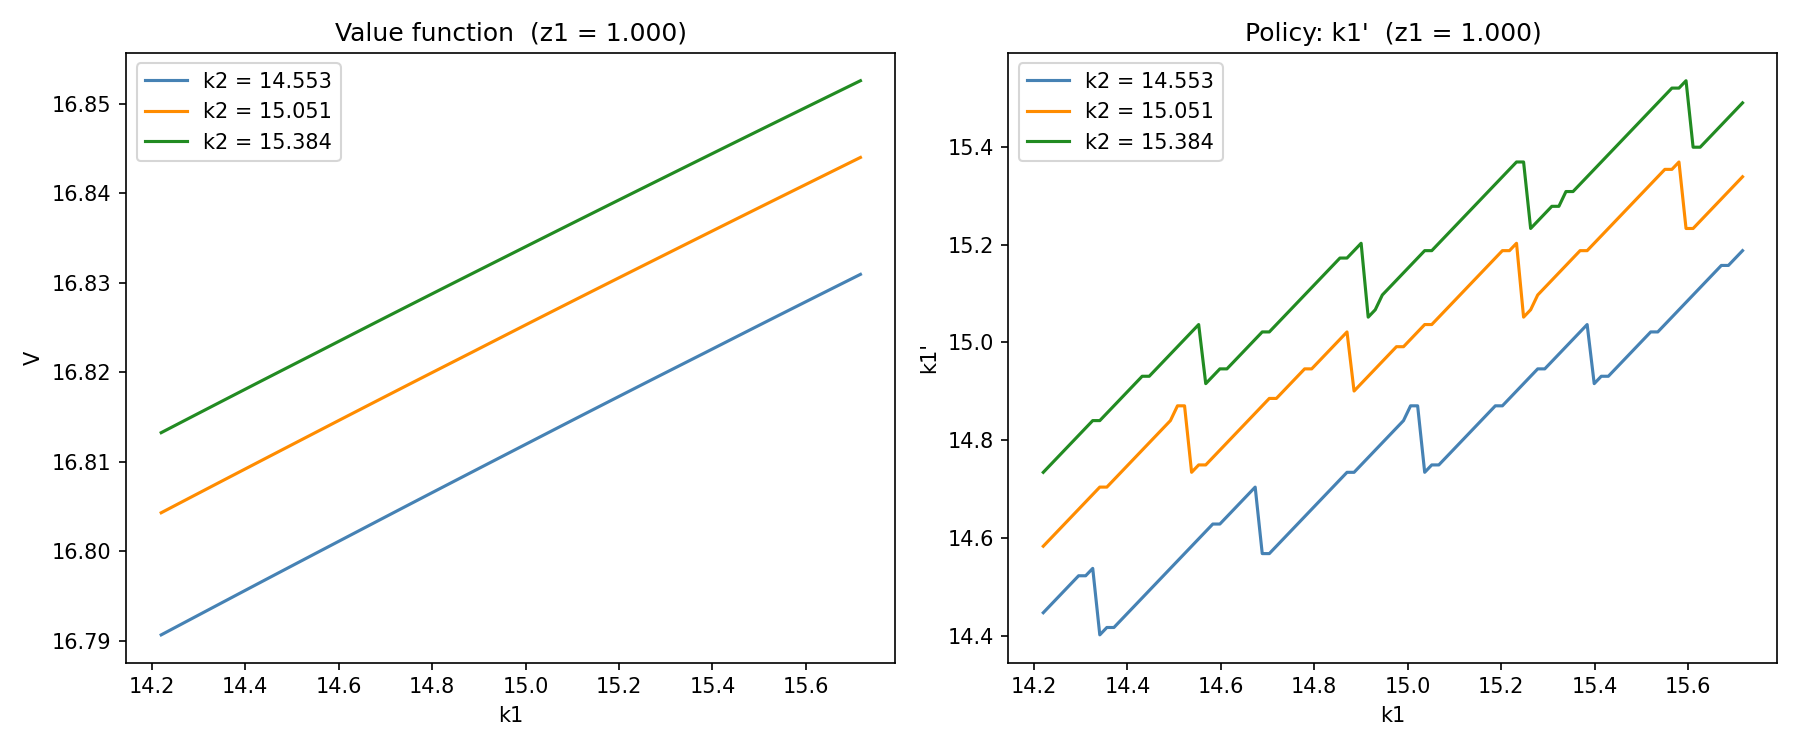
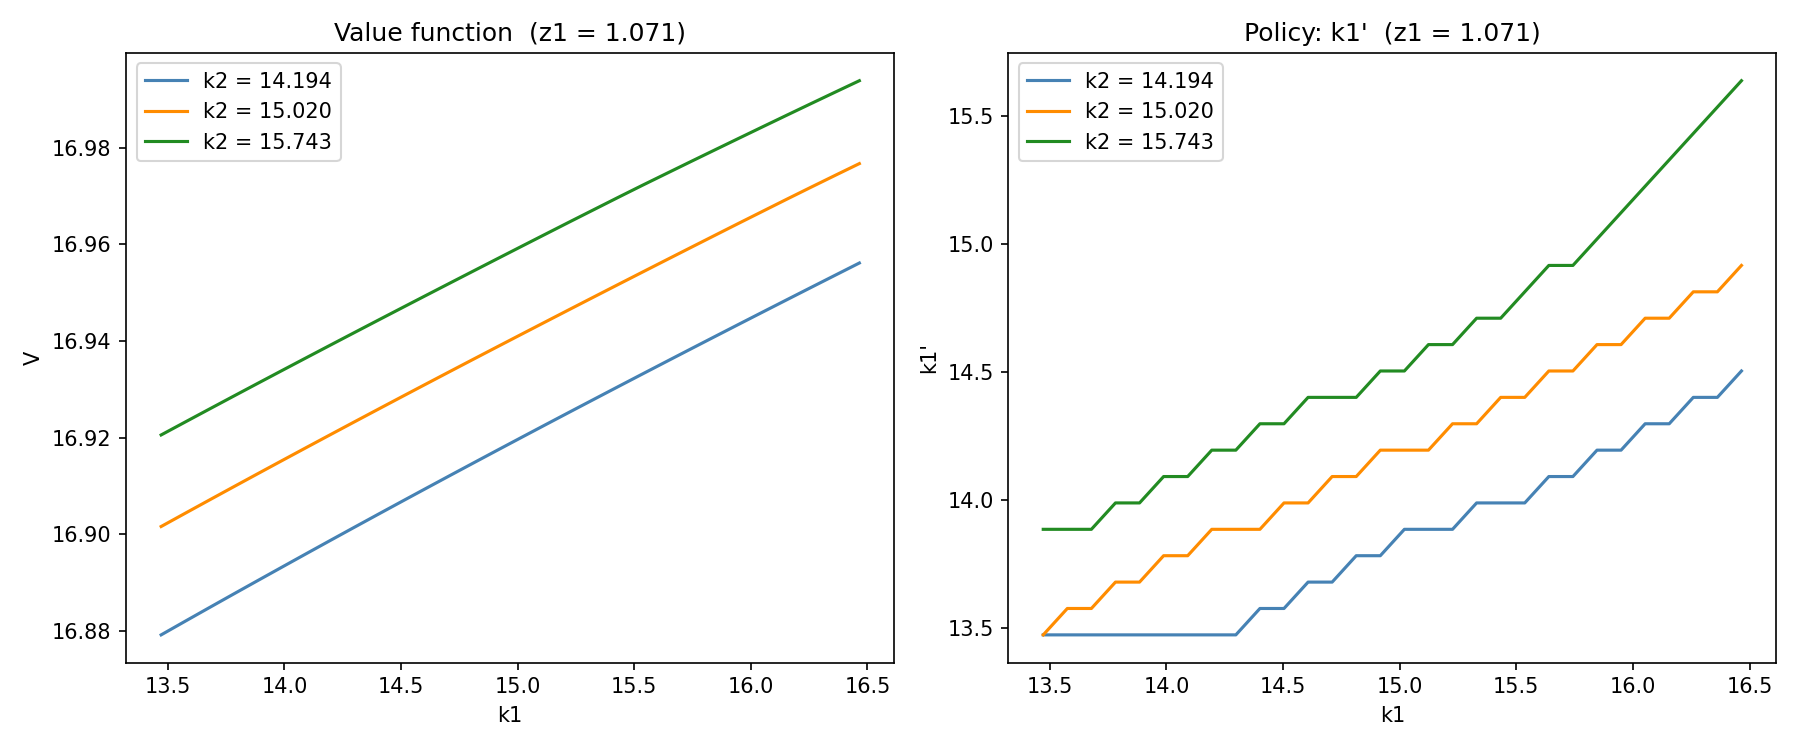
Update code and output

diff --git a/Code/q.py b/Code/q.py
@@ -96,7 +96,7 @@ class TwoSector:
                  σ_z1=0.01,
                  nk1=20,
                  nk2=20,
-                 k_width=0.05,
+                 k_width=0.10,
                  z1_grid=np.zeros(7),
                  P_z1=np.zeros((7, 7))):
 
@@ -200,6 +200,32 @@ def reward(i1, i2, iz, j1, j2, mod):
 
 
 # ------------------------------------------------------------
+# Precompute reward table: R[i1, i2, iz, j1, j2]
+# ------------------------------------------------------------
+
+@jit(nopython=True, parallel=True)
+def compute_reward_table(mod):
+    '''
+    Build the full reward table once before Q-learning starts.
+    Subsequent training steps do O(1) lookups instead of recomputing
+    exp, pow, and feasibility checks each time.
+    Shape mirrors the Q-table: (nk1, nk2, nz, nk1, nk2).
+    Memory note: same size as Q (~800 MB for nk1=nk2=100, nz=1).
+    '''
+    nk1 = len(mod.k1_grid)
+    nk2 = len(mod.k2_grid)
+    nz  = len(mod.z1_grid)
+    R = np.full((nk1, nk2, nz, nk1, nk2), -np.inf)
+    for i1 in prange(nk1):
+        for i2 in range(nk2):
+            for iz in range(nz):
+                for j1 in range(nk1):
+                    for j2 in range(nk2):
+                        R[i1, i2, iz, j1, j2] = reward(i1, i2, iz, j1, j2, mod)
+    return R
+
+
+# ------------------------------------------------------------
 # Sample next shock index from transition row (used instead of P_z1 weighted sum)
 # ------------------------------------------------------------
 
@@ -212,12 +238,9 @@ def sample_next_z(iz, mod):
     it only observes the realised next state.
     '''
     u   = np.random.rand()
-    cdf = 0.0
-    for jz in range(len(mod.z1_grid)):
-        cdf += mod.P_z1[iz, jz]
-        if u < cdf:
-            return jz
-    return len(mod.z1_grid) - 1   # numerical safety
+    cdf = np.cumsum(mod.P_z1[iz])
+    jz  = np.searchsorted(cdf, u)
+    return min(jz, len(mod.z1_grid) - 1)   # clamp for floating-point safety
 
 
 # ------------------------------------------------------------
@@ -225,7 +248,7 @@ def sample_next_z(iz, mod):
 # ------------------------------------------------------------
 
 @jit(nopython=True)
-def update_step(Q, mod, ε=0.1, lr=0.1):
+def update_step(Q, R, mod, ε=0.1, lr=0.1):
     '''
     Run one episode of Q-learning: randomly pick a starting state,
     then take steps until the within-episode Q-table change is below
@@ -240,13 +263,15 @@ def update_step(Q, mod, ε=0.1, lr=0.1):
     ----------
     Q   : current Q-table, shape (nk1, nk2, nz, nk1, nk2)
               Q[i1, i2, iz, j1, j2] = value of choosing (j1,j2) in state (i1,i2,iz)
+    R   : precomputed reward table, same shape as Q
     mod : TwoSector instance
     ε   : exploration probability (epsilon-greedy)
     lr  : learning rate α_t (held fixed per episode; caller may decay across episodes)
 
     Returns
     -------
-    Q   : updated Q-table (in-place modification + return for clarity)
+    Q      : updated Q-table (in-place modification + return for clarity)
+    max_td : max |TD error| seen this episode (used as convergence signal)
     '''
     nk1 = len(mod.k1_grid)
     nk2 = len(mod.k2_grid)
@@ -254,6 +279,7 @@ def update_step(Q, mod, ε=0.1, lr=0.1):
 
     # Suggestion 3: Increased steps from 20,000 to 30,000
     max_steps = 30000
+    max_td    = 0.0
 
     i1 = np.random.randint(0, nk1)
     i2 = np.random.randint(0, nk2)
@@ -273,14 +299,14 @@ def update_step(Q, mod, ε=0.1, lr=0.1):
                         best_val = Q[i1, i2, iz, a1, a2]
                         j1 = a1; j2 = a2
 
-        r = reward(i1, i2, iz, j1, j2, mod)
+        r = R[i1, i2, iz, j1, j2]
 
         if r == -np.inf:
             j1 = np.random.randint(0, nk1)
             j2 = np.random.randint(0, nk2)
-            r  = reward(i1, i2, iz, j1, j2, mod)
+            r  = R[i1, i2, iz, j1, j2]
             if r == -np.inf:
-                continue 
+                continue
 
         iz_next = sample_next_z(iz, mod)
 
@@ -294,9 +320,13 @@ def update_step(Q, mod, ε=0.1, lr=0.1):
         TD = r + mod.β * max_q_next - Q[i1, i2, iz, j1, j2]
         Q[i1, i2, iz, j1, j2] += lr * TD
 
+        abs_td = TD if TD >= 0.0 else -TD
+        if abs_td > max_td:
+            max_td = abs_td
+
         i1, i2, iz = j1, j2, iz_next
 
-    return Q
+    return Q, max_td
 
 
 
@@ -318,8 +348,11 @@ def qlearning(mod,
               print_step=1000):
     '''
     Run N episodes of Q-learning, decaying the learning rate across
-    episodes, and stop early if the sup-norm change in the Q-table
+    episodes, and stop early if the max |TD error| within an episode
     falls below tol.
+
+    Convergence criterion: max |TD| across steps in the episode, which
+    measures Bellman residuals directly and avoids copying the Q-table.
 
     This is the Q-learning analogue of vfi() in vfi.py.
 
@@ -331,7 +364,7 @@ def qlearning(mod,
     lr_0       : initial learning rate
     lr_min     : floor for the decayed learning rate
     lr_decay   : exponential decay constant: lr_t = max(lr_0*exp(-decay*t), lr_min)
-    tol        : convergence tolerance on sup-norm of Q-table change
+    tol        : convergence tolerance on max |TD error| within an episode
     print_step : print progress every this many episodes
 
     Returns
@@ -340,21 +373,22 @@ def qlearning(mod,
     pol_k1 : greedy policy for k1_next (index), shape (nk1, nk2, nz)
     pol_k2 : greedy policy for k2_next (index), shape (nk1, nk2, nz)
     '''
-    
+
     if eps is not None:
         eps_0 = eps
     nk1, nk2, nz = len(mod.k1_grid), len(mod.k2_grid), len(mod.z1_grid)
     Q = np.zeros((nk1, nk2, nz, nk1, nk2))
 
+    print('Precomputing reward table ...')
+    R = compute_reward_table(mod)
+    print('Done.\n')
+
     for episode in range(1, N + 1):
         # Suggestion 2: Decaying learning rate and epsilon
-        lr = max(lr_0 * np.exp(-lr_decay * episode), lr_min)
+        lr  = max(lr_0  * np.exp(-lr_decay  * episode), lr_min)
         eps = max(eps_0 * np.exp(-eps_decay * episode), eps_min)
 
-        Q_old = Q.copy()
-        Q = update_step(Q, mod, ε=eps, lr=lr)
-
-        error = np.max(np.abs(Q - Q_old))
+        Q, error = update_step(Q, R, mod, ε=eps, lr=lr)
 
         if episode % print_step == 0:
             print(f'Ep {episode:6d} | lr: {lr:.4f} | eps: {eps:.4f} | Error: {error:.2e}')
@@ -367,19 +401,10 @@ def qlearning(mod,
     else:
         print('Warning: reached maximum episodes without convergence')
 
-    # ... (Rest of policy extraction remains the same)
-    pol_k1 = np.zeros((nk1, nk2, nz), dtype=np.int64)
-    pol_k2 = np.zeros((nk1, nk2, nz), dtype=np.int64)
-    for i1 in range(nk1):
-        for i2 in range(nk2):
-            for iz in range(nz):
-                best_val = -np.inf
-                for j1 in range(nk1):
-                    for j2 in range(nk2):
-                        if Q[i1, i2, iz, j1, j2] > best_val:
-                            best_val = Q[i1, i2, iz, j1, j2]
-                            pol_k1[i1, i2, iz] = j1
-                            pol_k2[i1, i2, iz] = j2
+    flat   = Q.reshape(nk1, nk2, nz, nk1 * nk2)
+    best   = flat.argmax(axis=3)
+    pol_k1 = (best // nk2).astype(np.int64)
+    pol_k2 = (best  % nk2).astype(np.int64)
 
     return Q, pol_k1, pol_k2
 
@@ -399,17 +424,17 @@ def vf_from_Q(Q):
 if __name__ == '__main__':
 
     # --- Tauchen discretisation (identical to vfi.py)
-    # ρ_z1, σ_z1, nz = 0.90, 0.01, 7
-    # mc      = qe.markov.approximation.tauchen(nz, ρ_z1, σ_z1)
-    # z1_grid = mc.state_values.astype(np.float64)
-    # P_z1    = np.asarray(mc.P, dtype=np.float64)
+    ρ_z1, σ_z1, nz = 0.90, 0.01, 2
+    mc      = qe.markov.approximation.tauchen(nz, ρ_z1, σ_z1)
+    z1_grid = mc.state_values.astype(np.float64)
+    P_z1    = np.asarray(mc.P, dtype=np.float64)
 
-    # --- Single z=0 (SS), single k2 (SS), large k1 grid to test convergence
-    z1_grid = np.array([0.0])
-    P_z1    = np.array([[1.0]])
+    # # --- Single z=0 (SS), single k2 (SS), large k1 grid to test convergence
+    # z1_grid = np.array([0.0])
+    # P_z1    = np.array([[1.0]])
 
     # --- Instantiate model (same parameters as vfi.py)
-    mod = TwoSector(nk1=100, nk2=10, z1_grid=z1_grid, P_z1=P_z1)
+    mod = TwoSector(nk1=30, nk2=30, z1_grid=z1_grid, P_z1=P_z1)
 
     print('Grid sizes:')
     print(f'  k1: {len(mod.k1_grid)} points in '

diff --git a/Code/vfi.py b/Code/vfi.py
@@ -106,9 +106,9 @@ class TwoSector:
                  ω12=0.5,  ω22=0.5,
                  ρ_z1=0.90,
                  σ_z1=0.01,
-                 nk1=20,
-                 nk2=20,
-                 k_width=0.05,     # grid half-width around SS as a fraction
+                 nk1=30,
+                 nk2=30,
+                 k_width=0.10,     # grid half-width around SS as a fraction
                  z1_grid=np.zeros(7),   # shock grid  (pass from qe.tauchen)
                  P_z1=np.zeros((7, 7))): # transition matrix (pass from qe.tauchen)
         
@@ -372,17 +372,17 @@ def vfi(mod, tol=1e-5, max_iter=10_000, print_step=25):
 if __name__ == '__main__':
 
     # --- Tauchen discretisation of z1 (done outside jitclass via quantecon)
-    # ρ_z1, σ_z1, nz = 0.90, 0.01, 7
-    # mc = qe.markov.approximation.tauchen(nz, ρ_z1, σ_z1)
-    # z1_grid = np.exp(mc.state_values.astype(np.float64))
-    # P_z1    = np.asarray(mc.P, dtype=np.float64)
+    ρ_z1, σ_z1, nz = 0.90, 0.01, 2
+    mc = qe.markov.approximation.tauchen(nz, ρ_z1, σ_z1)
+    z1_grid = np.exp(mc.state_values.astype(np.float64))
+    P_z1    = np.asarray(mc.P, dtype=np.float64)
 
-    # --- Single z=1 (SS level), single k2 (SS), large k1 grid
-    z1_grid = np.array([1.0])
-    P_z1    = np.array([[1.0]])
+    # # --- Single z=1 (SS level), single k2 (SS), large k1 grid
+    # z1_grid = np.array([1.0])
+    # P_z1    = np.array([[1.0]])
 
     # --- Instantiate model
-    mod = TwoSector(nk1=100, nk2=10, z1_grid=z1_grid, P_z1=P_z1)
+    mod = TwoSector(nk1=30, nk2=30, z1_grid=z1_grid, P_z1=P_z1)
 
     print('Grid sizes:')
     print(f'  k1: {len(mod.k1_grid)} points in '
